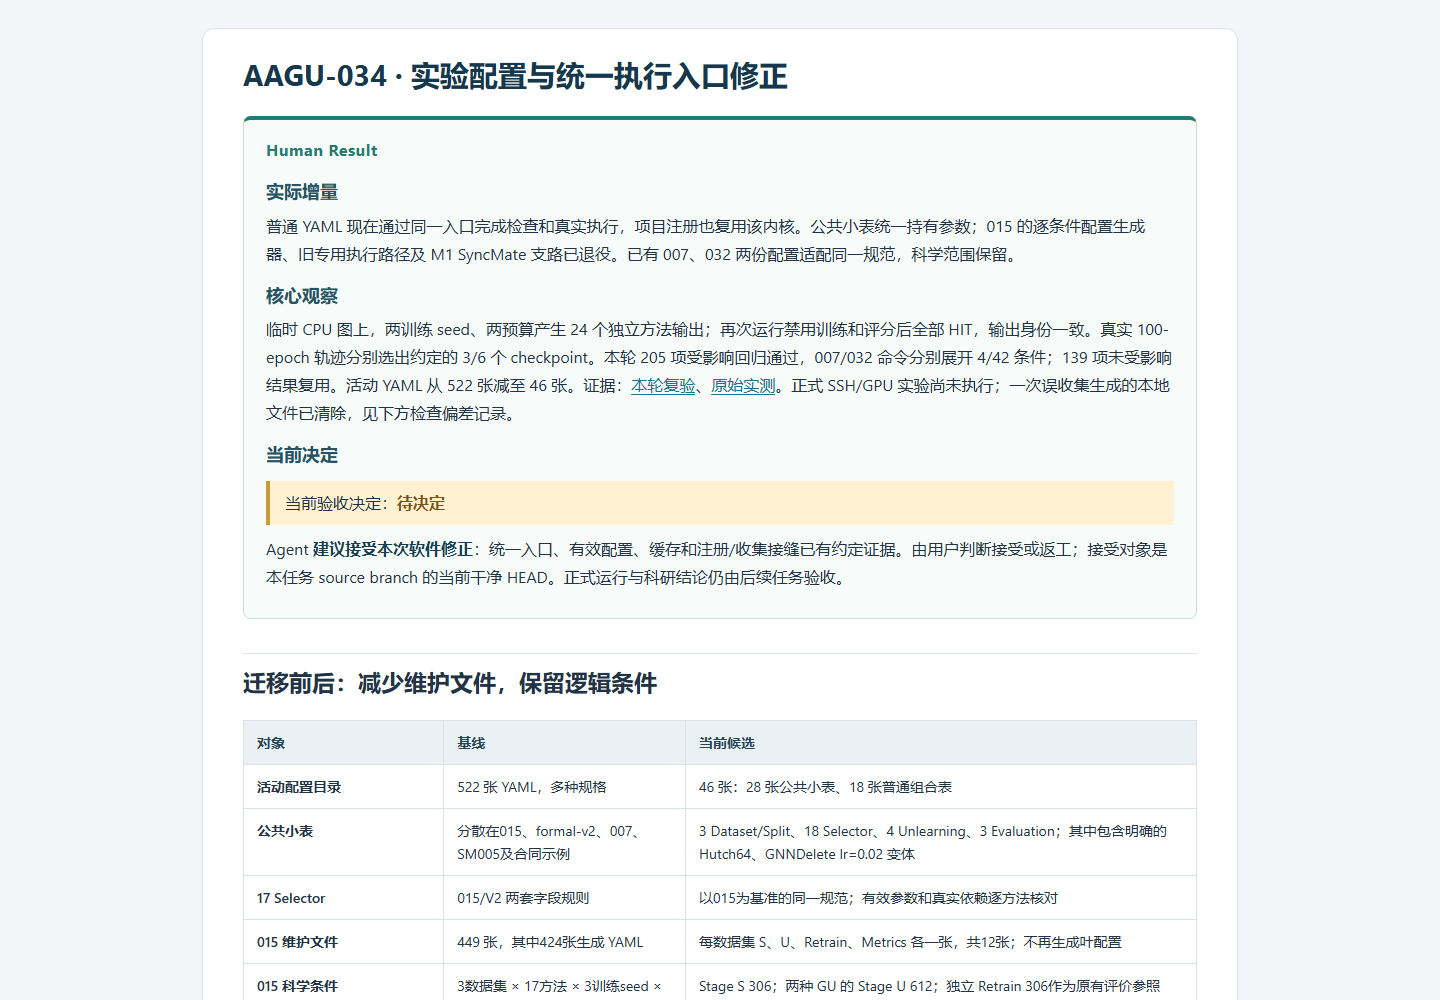
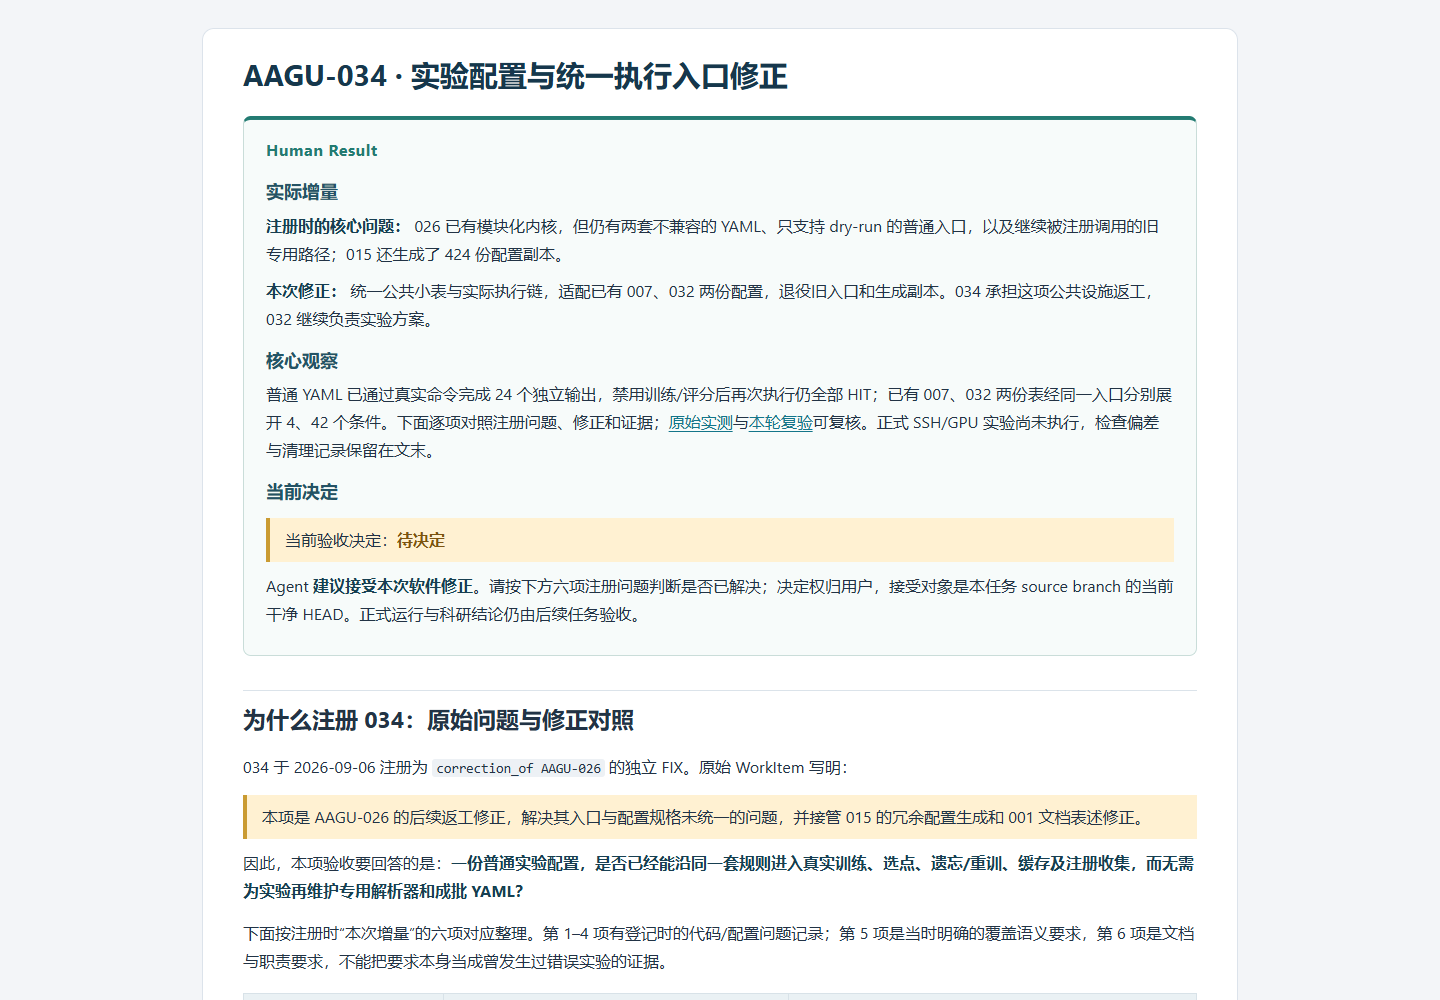
docs(AAGU-034): anchor acceptance report to original registration problems

Changed region(s): [[0.1875, 0.217, 0.8125, 0.62], [0.1562, 0.651, 0.8438, 1.0]]

diff --git a/GULib-master/.workblock/items/AAGU-034/REPORT.html b/GULib-master/.workblock/items/AAGU-034/REPORT.html
@@ -1,15 +1,63 @@
 <!doctype html><html lang="zh-CN"><head><meta charset="utf-8"><meta name="viewport" content="width=device-width,initial-scale=1"><title>AAGU-034 · 实验配置与统一执行入口修正</title><style>*{box-sizing:border-box}html{background:#f3f5f8;color:#223345;font-family:"Segoe UI","Microsoft YaHei",sans-serif}body{margin:0 auto;max-width:1100px;padding:28px 32px 70px;font-size:16px;line-height:1.75}main{background:#fff;padding:26px 40px 48px;border:1px solid #dce3eb;border-radius:12px}h1{font-size:29px;line-height:1.35;color:#16374c;margin:0 0 22px}h2{font-size:23px;margin:34px 0 14px;padding-top:8px;border-top:1px solid #dbe3ea}h3{font-size:18px;color:#245365;margin:24px 0 7px}p{margin:7px 0 14px}section{border:1px solid #c9ddd9;border-top:4px solid #237b72;background:#f7fbfa;padding:16px 22px 18px;border-radius:8px}section h2{font-size:16px;letter-spacing:.5px;color:#237b72;border:0;margin:0 0 8px;padding:0}section h3{margin:12px 0 4px}section p{margin:4px 0 9px}blockquote{margin:10px 0;padding:8px 15px;background:#fff1d2;border-left:4px solid #ca9b32}blockquote p{margin:0!important}[data-workblock-decision]{font-weight:700;color:#7c5410}a{color:#147589;text-underline-offset:3px}code{background:#edf1f5;padding:1px 4px;border-radius:3px;font-size:.85em;overflow-wrap:anywhere}pre{background:#152e40;color:#eff5f9;padding:18px 22px;border-radius:6px;overflow:auto;line-height:1.6}pre code{background:none;color:inherit;padding:0;white-space:pre-wrap;word-break:break-word}table{border-collapse:collapse;width:100%;font-size:14px;line-height:1.65}th{background:#eaf1f4;text-align:left;color:#244657}th,td{border:1px solid #d8e2e8;padding:10px 13px;vertical-align:top;overflow-wrap:anywhere}td:first-child{font-weight:600;width:21%}.table-wrap{overflow:auto;margin:18px 0}strong{color:#173f51}li{margin:7px 0}@media(max-width:640px){body{padding:10px 8px;font-size:15px}main{padding:20px 16px;border-radius:8px}h1{font-size:24px}h2{font-size:21px}h3{font-size:17px}section{padding:13px}th,td{padding:7px;font-size:13px}pre{padding:12px}}@media print{html{background:white}body{max-width:none;padding:0}main{border:0;padding:0}section{break-inside:avoid}h2,h3{break-after:avoid}}</style></head><body><main><h1>AAGU-034 · 实验配置与统一执行入口修正</h1>
 <section data-workblock-human-result="2.1"><h2>Human Result</h2>
 <h3>实际增量</h3>
-<p>普通 YAML 现在通过同一入口完成检查和真实执行，项目注册也复用该内核。公共小表统一持有参数；015 的逐条件配置生成器、旧专用执行路径及 M1 SyncMate 支路已退役。已有 007、032 两份配置适配同一规范，科学范围保留。</p>
+<p><strong>注册时的核心问题：</strong> 026 已有模块化内核，但仍有两套不兼容的 YAML、只支持 dry-run 的普通入口，以及继续被注册调用的旧专用路径；015 还生成了 424 份配置副本。</p>
+<p><strong>本次修正：</strong> 统一公共小表与实际执行链，适配已有 007、032 两份配置，退役旧入口和生成副本。034 承担这项公共设施返工，032 继续负责实验方案。</p>
 <h3>核心观察</h3>
-<p>临时 CPU 图上，两训练 seed、两预算产生 24 个独立方法输出；再次运行禁用训练和评分后全部 HIT，输出身份一致。真实 100-epoch 轨迹分别选出约定的 3/6 个 checkpoint。本轮 205 项受影响回归通过，007/032 命令分别展开 4/42 条件；139 项未受影响结果复用。活动 YAML 从 522 张减至 46 张。证据：<a href="evidence/rework-observations.json">本轮复验</a>、<a href="evidence/observations.json">原始实测</a>。正式 SSH/GPU 实验尚未执行；一次误收集生成的本地文件已清除，见下方检查偏差记录。</p>
+<p>普通 YAML 已通过真实命令完成 24 个独立输出，禁用训练/评分后再次执行仍全部 HIT；已有 007、032 两份表经同一入口分别展开 4、42 个条件。下面逐项对照注册问题、修正和证据；<a href="evidence/observations.json">原始实测</a>与<a href="evidence/rework-observations.json">本轮复验</a>可复核。正式 SSH/GPU 实验尚未执行，检查偏差与清理记录保留在文末。</p>
 <h3>当前决定</h3>
 <blockquote>
 <p>当前验收决定：<span data-workblock-decision="pending">待决定</span></p>
 </blockquote>
-<p>Agent <strong>建议接受本次软件修正</strong>：统一入口、有效配置、缓存和注册/收集接缝已有约定证据。由用户判断接受或返工；接受对象是本任务 source branch 的当前干净 HEAD。正式运行与科研结论仍由后续任务验收。</p>
-</section><h2>迁移前后：减少维护文件，保留逻辑条件</h2>
+<p>Agent <strong>建议接受本次软件修正</strong>。请按下方六项注册问题判断是否已解决；决定权归用户，接受对象是本任务 source branch 的当前干净 HEAD。正式运行与科研结论仍由后续任务验收。</p>
+</section><h2>为什么注册 034：原始问题与修正对照</h2>
+<p>034 于 2026-09-06 注册为 <code>correction_of AAGU-026</code> 的独立 FIX。原始 WorkItem 写明：</p>
+<blockquote>
+<p>本项是 AAGU-026 的后续返工修正，解决其入口与配置规格未统一的问题，并接管 015 的冗余配置生成和 001 文档表述修正。</p>
+</blockquote>
+<p>因此，本项验收要回答的是：<strong>一份普通实验配置，是否已经能沿同一套规则进入真实训练、选点、遗忘/重训、缓存及注册收集，而无需为实验再维护专用解析器和成批 YAML？</strong></p>
+<p>下面按注册时“本次增量”的六项对应整理。第 1–4 项有登记时的代码/配置问题记录；第 5 项是当时明确的覆盖语义要求，第 6 项是文档与职责要求，不能把要求本身当成曾发生过错误实验的证据。</p>
+<div class="table-wrap"><table>
+<thead>
+<tr>
+<th>注册时的真实问题或明确要求</th>
+<th>本次对应修正</th>
+<th>用什么判断修正是否成立</th>
+</tr>
+</thead>
+<tbody><tr>
+<td><strong>1. 公共配置没有一套共同规格。</strong> 015 与 V2 各有 17 份 Selector 表；同一 <code>gt_full</code> 参数相同，但一边要求 <code>candidate/budget</code>，另一边拒绝这些字段。</td>
+<td>公共目录持有同一套小表，组合表引用；同语义实例共用，不同参数变体明确区分。</td>
+<td><a href="evidence/configuration-audit.json">配置审计</a>核对全部活动引用；<a href="evidence/observations.json">实际观察</a>包含17方法公式对照和真实TracIn 3/6轨迹。</td>
+</tr>
+<tr>
+<td><strong>2. “能检查配置”与“能实际执行”脱节。</strong> <code>run.py</code> 对普通 <code>kind: experiment</code> 只放行 dry-run；已有真实内核没有成为统一命令路径。</td>
+<td>普通检查、临时CPU执行、注册项目调用均进入同一解析/展开/执行链。</td>
+<td><a href="evidence/observations.json">真实命令证据</a>产生24个独立输出，另从Stage S真实摘要执行Retrain；不是仅调用解析函数。</td>
+</tr>
+<tr>
+<td><strong>3. 旧专用路径仍被消费。</strong> <code>opengu_recipes/opengu_adapter</code> 仍调用旧 target-direct stage，活动注册不能只靠迁移文件名完成修正。</td>
+<td>迁移预检、指纹、输出及收集契约后退役旧解析/调度与注册；本次复核又清除了M1 helper及其旧Adapter。</td>
+<td><a href="evidence/retired-code.json">删除清单</a>与零活动引用审计；<a href="evidence/rework-observations.json">收集验证</a>覆盖当前Core、队列、校验、结果读取。M1残留属于实施后补查，未冒充注册时已点名的问题。</td>
+</tr>
+<tr>
+<td><strong>4. 015 用文件复制表示实验条件。</strong> 449份YAML中424份位于 <code>generated/</code>，按seed/预算生成，造成重复维护。</td>
+<td>改为12张普通维护表和内存展开；保留原三数据集、17方法、三seed、两预算及阶段语义。</td>
+<td><a href="evidence/configuration-audit.json">迁移审计</a>：424副本退役；Stage S 306、Stage U 612、独立Retrain 306，文件减少未缩小科学范围。</td>
+</tr>
+<tr>
+<td><strong>5. 大表覆盖规则必须落实到实际消费者。</strong> 只允许训练seed和预算，明确优先级、来源、模型型Selector与GU/Retrain配对；不能任意override或写回小表。</td>
+<td>展开有效配置并记录来源，训练、选点和缓存使用实际消费值；Dataset/Split与Random抽样seed保持各自含义。</td>
+<td><a href="evidence/observations.json">CPU冷/热观察</a>：实际训练seed为122/722、选点数1/2、源YAML不变；阻断producer后HIT且输出身份一致。</td>
+</tr>
+<tr>
+<td><strong>6. 合同、模板和责任范围必须对齐。</strong> 用户要求把公共整改独立登记为034，032继续只负责科学方案及最终配置验收。</td>
+<td>更新001合同和配置/入口说明；通用规范适配已有007、032两份表，公共整改由034承担。</td>
+<td><a href="evidence/rework-observations.json">两份表的实际CLI检查</a>：跨工作目录引用正确，007为4条件、032为42条件，源表未改。正式实验及032科学接受仍由各自任务决定。</td>
+</tr>
+</tbody></table></div>
+<p><strong>原始来源：</strong><a href="WORKITEM.md">同一 WorkItem</a> 的 Human Surface、Source and relations、Observed baseline and evidence boundaries。已与首次登记提交 <code>619d0f75135727ad09d00d658ef48d16e9bf4841</code> 核对；<a href="evidence/registration-problem-source.json">原文摘录与来源定位</a>保留登记原文和Git对象身份。上表是对应说明，不改写原始合同，也不撤销026此前已接受的缓存/消费者证据。</p>
+<h2>迁移前后：减少维护文件，保留逻辑条件</h2>
 <div class="table-wrap"><table>
 <thead>
 <tr>

diff --git a/GULib-master/.workblock/items/AAGU-034/REPORT.md b/GULib-master/.workblock/items/AAGU-034/REPORT.md
@@ -4,17 +4,40 @@
 
 ### 实际增量
 
-普通 YAML 现在通过同一入口完成检查和真实执行，项目注册也复用该内核。公共小表统一持有参数；015 的逐条件配置生成器、旧专用执行路径及 M1 SyncMate 支路已退役。已有 007、032 两份配置适配同一规范，科学范围保留。
+**注册时的核心问题：** 026 已有模块化内核，但仍有两套不兼容的 YAML、只支持 dry-run 的普通入口，以及继续被注册调用的旧专用路径；015 还生成了 424 份配置副本。
+
+**本次修正：** 统一公共小表与实际执行链，适配已有 007、032 两份配置，退役旧入口和生成副本。034 承担这项公共设施返工，032 继续负责实验方案。
 
 ### 核心观察
 
-临时 CPU 图上，两训练 seed、两预算产生 24 个独立方法输出；再次运行禁用训练和评分后全部 HIT，输出身份一致。真实 100-epoch 轨迹分别选出约定的 3/6 个 checkpoint。本轮 205 项受影响回归通过，007/032 命令分别展开 4/42 条件；139 项未受影响结果复用。活动 YAML 从 522 张减至 46 张。证据：[本轮复验](evidence/rework-observations.json)、[原始实测](evidence/observations.json)。正式 SSH/GPU 实验尚未执行；一次误收集生成的本地文件已清除，见下方检查偏差记录。
+普通 YAML 已通过真实命令完成 24 个独立输出，禁用训练/评分后再次执行仍全部 HIT；已有 007、032 两份表经同一入口分别展开 4、42 个条件。下面逐项对照注册问题、修正和证据；[原始实测](evidence/observations.json)与[本轮复验](evidence/rework-observations.json)可复核。正式 SSH/GPU 实验尚未执行，检查偏差与清理记录保留在文末。
 
 ### 当前决定
 
 > 当前验收决定：`待决定`
 
-Agent **建议接受本次软件修正**：统一入口、有效配置、缓存和注册/收集接缝已有约定证据。由用户判断接受或返工；接受对象是本任务 source branch 的当前干净 HEAD。正式运行与科研结论仍由后续任务验收。
+Agent **建议接受本次软件修正**。请按下方六项注册问题判断是否已解决；决定权归用户，接受对象是本任务 source branch 的当前干净 HEAD。正式运行与科研结论仍由后续任务验收。
+
+## 为什么注册 034：原始问题与修正对照
+
+034 于 2026-09-06 注册为 `correction_of AAGU-026` 的独立 FIX。原始 WorkItem 写明：
+
+> 本项是 AAGU-026 的后续返工修正，解决其入口与配置规格未统一的问题，并接管 015 的冗余配置生成和 001 文档表述修正。
+
+因此，本项验收要回答的是：**一份普通实验配置，是否已经能沿同一套规则进入真实训练、选点、遗忘/重训、缓存及注册收集，而无需为实验再维护专用解析器和成批 YAML？**
+
+下面按注册时“本次增量”的六项对应整理。第 1–4 项有登记时的代码/配置问题记录；第 5 项是当时明确的覆盖语义要求，第 6 项是文档与职责要求，不能把要求本身当成曾发生过错误实验的证据。
+
+| 注册时的真实问题或明确要求 | 本次对应修正 | 用什么判断修正是否成立 |
+|---|---|---|
+| **1. 公共配置没有一套共同规格。** 015 与 V2 各有 17 份 Selector 表；同一 `gt_full` 参数相同，但一边要求 `candidate/budget`，另一边拒绝这些字段。 | 公共目录持有同一套小表，组合表引用；同语义实例共用，不同参数变体明确区分。 | [配置审计](evidence/configuration-audit.json)核对全部活动引用；[实际观察](evidence/observations.json)包含17方法公式对照和真实TracIn 3/6轨迹。 |
+| **2. “能检查配置”与“能实际执行”脱节。** `run.py` 对普通 `kind: experiment` 只放行 dry-run；已有真实内核没有成为统一命令路径。 | 普通检查、临时CPU执行、注册项目调用均进入同一解析/展开/执行链。 | [真实命令证据](evidence/observations.json)产生24个独立输出，另从Stage S真实摘要执行Retrain；不是仅调用解析函数。 |
+| **3. 旧专用路径仍被消费。** `opengu_recipes/opengu_adapter` 仍调用旧 target-direct stage，活动注册不能只靠迁移文件名完成修正。 | 迁移预检、指纹、输出及收集契约后退役旧解析/调度与注册；本次复核又清除了M1 helper及其旧Adapter。 | [删除清单](evidence/retired-code.json)与零活动引用审计；[收集验证](evidence/rework-observations.json)覆盖当前Core、队列、校验、结果读取。M1残留属于实施后补查，未冒充注册时已点名的问题。 |
+| **4. 015 用文件复制表示实验条件。** 449份YAML中424份位于 `generated/`，按seed/预算生成，造成重复维护。 | 改为12张普通维护表和内存展开；保留原三数据集、17方法、三seed、两预算及阶段语义。 | [迁移审计](evidence/configuration-audit.json)：424副本退役；Stage S 306、Stage U 612、独立Retrain 306，文件减少未缩小科学范围。 |
+| **5. 大表覆盖规则必须落实到实际消费者。** 只允许训练seed和预算，明确优先级、来源、模型型Selector与GU/Retrain配对；不能任意override或写回小表。 | 展开有效配置并记录来源，训练、选点和缓存使用实际消费值；Dataset/Split与Random抽样seed保持各自含义。 | [CPU冷/热观察](evidence/observations.json)：实际训练seed为122/722、选点数1/2、源YAML不变；阻断producer后HIT且输出身份一致。 |
+| **6. 合同、模板和责任范围必须对齐。** 用户要求把公共整改独立登记为034，032继续只负责科学方案及最终配置验收。 | 更新001合同和配置/入口说明；通用规范适配已有007、032两份表，公共整改由034承担。 | [两份表的实际CLI检查](evidence/rework-observations.json)：跨工作目录引用正确，007为4条件、032为42条件，源表未改。正式实验及032科学接受仍由各自任务决定。 |
+
+**原始来源：**[同一 WorkItem](WORKITEM.md) 的 Human Surface、Source and relations、Observed baseline and evidence boundaries。已与首次登记提交 `619d0f75135727ad09d00d658ef48d16e9bf4841` 核对；[原文摘录与来源定位](evidence/registration-problem-source.json)保留登记原文和Git对象身份。上表是对应说明，不改写原始合同，也不撤销026此前已接受的缓存/消费者证据。
 
 ## 迁移前后：减少维护文件，保留逻辑条件
 

diff --git a/GULib-master/.workblock/items/AAGU-034/WORKITEM.md b/GULib-master/.workblock/items/AAGU-034/WORKITEM.md
@@ -127,3 +127,11 @@ Stable locator: `.workblock/items/AAGU-034/WORKITEM.md`
 补充检查中的一次仓库全域 `pytest --collect-only` 误导入 `tests/` 外有顶层执行副作用的旧 IM 基准脚本，触发了本地数据下载/处理和 CPU 计算；该进程已停止。随后明确限定 `pytest tests --collect-only`，745项收集通过。逐文件核对创建时间、路径、Git忽略状态和SHA-256后，移除了本次误操作新增的57个文件（40数据、11日志、6编译缓存），并验证均不存在；没有删除既有文件或历史证据。这次误操作及其产物不计入任何正式实验通过结论。详见[新增文件与清理核验](evidence/collection-side-effects.json)及命令回执的interrupted_checks。
 
 正式执行与历史证据边界未因此获得批准；当前候选的205项隔离测试和745项限定目录收集结果独立有效。
+
+## Report rework · 2026-09-06 · 展示注册时的核心问题
+
+- 用户指出验收表面只有增量与测试观察，未呈现034登记时要解决的真实问题；同一Claim返回ongoing（revision 5）。此次只返工报告，不改变产品、配置、测试合同或原始Human Surface。
+- 已从首次登记提交619d0f75135727ad09d00d658ef48d16e9bf4841读取原文，核对Human Surface未变；首屏补充“两套配置规格、普通入口只支持dry-run、旧注册路径仍有效、424份生成副本”的问题起点，并将登记六项逐一关联修正与证据。区分原始事实、验收要求和后补发现，不将测试数代替问题是否解决。
+- 此次仅检查报告原文追溯、问题到证据对应、Markdown/HTML结构、生成一致性、链接、桌面/窄屏及原始问题表真实渲染。软件结果复用38010500与81a220e9的实测检查点，以及8a554419的最终差异复核；不重复执行产品测试。当前仍待人决定。
+
+- 报告返工 Verify：登记引文与首次Git原文一致，原Human Surface未修改；六项问题对照、证据链接、唯一Human Result/待决定投影与确定性HTML重建检查通过。已实际查看桌面、窄屏及完整问题对照表；决定入口在550/740px处，无溢出或断图。最新表面证据见evidence/report-problem-check.json；本次仅报告变更，软件检查不重复执行，继续停在人类验收。
